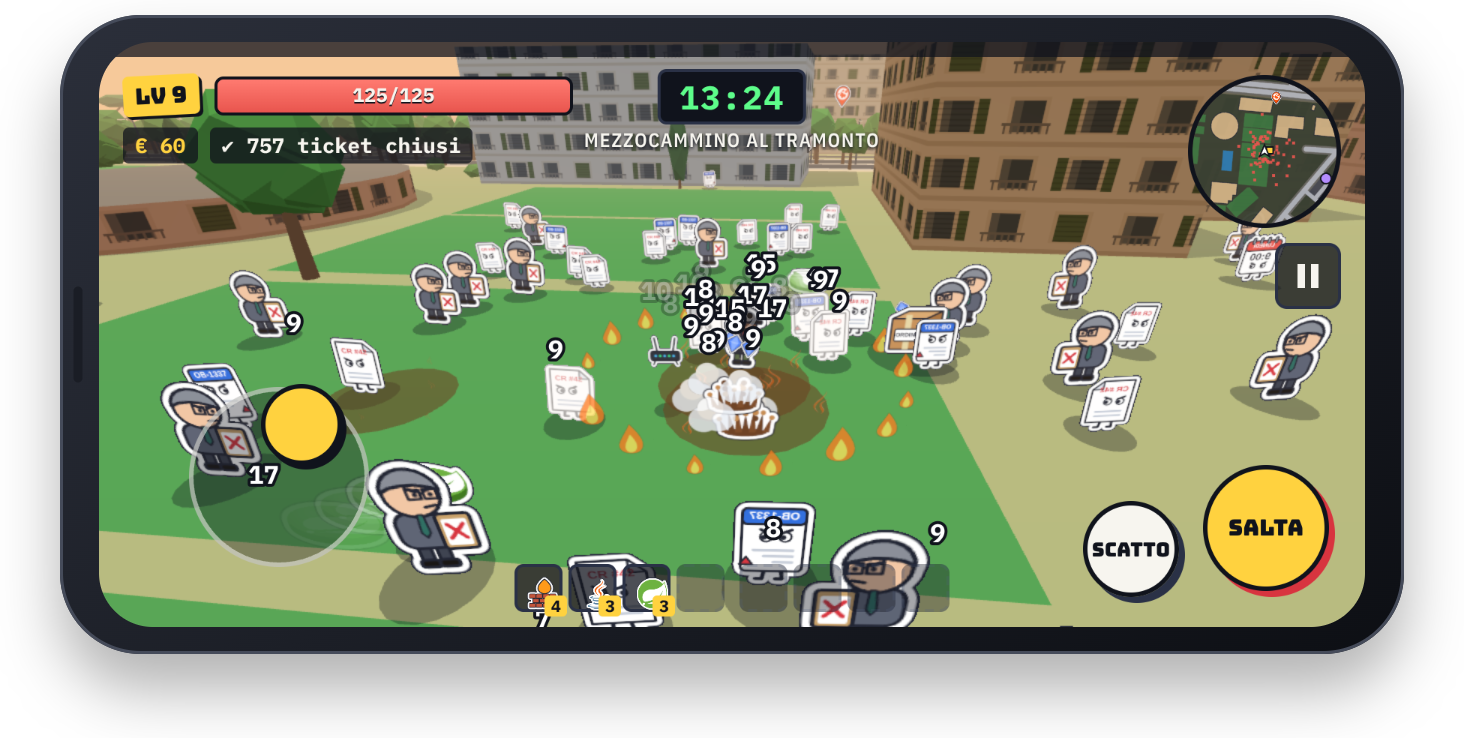
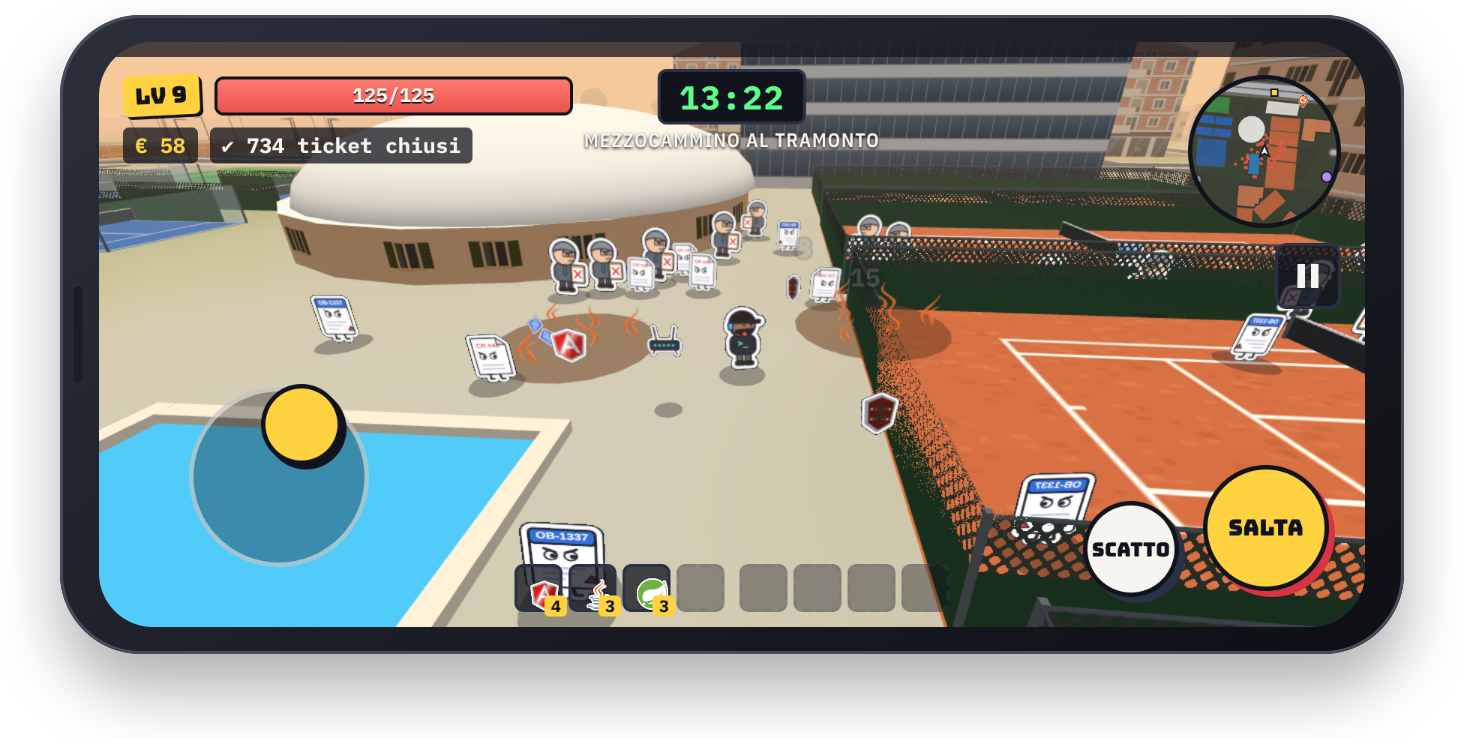
Screenshot e GIF del README sulla nuova Mezzocammino
Rigenerate tutte le immagini che mostrano la mappa, dopo i palazzi in stile,
gli alberi veri e il suolo dal satellite:
- gameplay, telefono, promozione, JOscar e vittoria nel piazzale dell'Enjoy
  Sporting Club, tra terra rossa, piscina e cupola; le armi su un campo da tennis
- boss di notte sul prato tra le palazzine illuminate
- i tre progetti davanti alla sede JPanik, ora in vetro
- vista aerea dal lato della Colombo, senza il "buco" della camera che
  dall'alto nascondeva gli alberi intorno alla sede
- didascalie del README aggiornate (sede in vetro, Sporting Club)

Banner, titolo e galleria dei loghi non mostrano la mappa e restano com'erano.

Claude-Session: https://claude.ai/code/session_016asEQ3wpeEEkXGbR2ePpUr

diff --git a/README.md b/README.md
@@ -12,7 +12,7 @@
 </p>
 
 <p align="center">
-  <img src="docs/media/hero.gif" alt="Gameplay: il Developer circondato da bug, email e ticket, con paperelle, Claude Code, scudi Angular e alveare JPanik" width="640">
+  <img src="docs/media/hero.gif" alt="Gameplay nel piazzale dell'Enjoy Sporting Club: il Developer circondato da bug, email e ticket, con paperelle, Claude Code, scudi Angular e alveare JPanik" width="640">
 </p>
 
 <p align="center">
@@ -73,7 +73,7 @@ All'avvio della partita il gioco chiede lo schermo intero dove il browser lo per
 su iPhone si ottiene aggiungendo la pagina alla schermata Home.
 
 <p align="center">
-  <img src="docs/media/mobile.png" alt="JBonk su telefono in orizzontale: joystick sotto il pollice sinistro, pulsanti Salta e Scatto a destra, HUD compatto" width="640">
+  <img src="docs/media/mobile.png" alt="JBonk su telefono in orizzontale, al tramonto tra la piscina e i campi in terra rossa: joystick sotto il pollice sinistro, pulsanti Salta e Scatto a destra, HUD compatto" width="640">
 </p>
 
 Con `#debug` nell'URL: `L` level-up, `B` boss, `G` invincibile, `K` uccidi tutti, `T` +1 ora, `O` +100 €, `N` nuova arma (prima le ultime aggiunte), `C` carta Soldo, `F` onda del radar NGH, `J` statuetta JOscar.
@@ -192,11 +192,11 @@ pensilina blu e le colonnine; bar e ristoranti con vetrine e tende a strisce nei
 
 <table>
   <tr>
-    <td width="50%"><img src="docs/media/aerial-helios.png" alt="Vista dall'alto di Mezzocammino al tramonto: palazzi con le altezze vere, strade, campi sportivi e alberi"></td>
-    <td width="50%"><img src="docs/media/aerial-atlas.png" alt="Vista dall'alto di Mezzocammino di notte: finestre illuminate e lampioni accesi lungo le strade"></td>
+    <td width="50%"><img src="docs/media/aerial-helios.png" alt="Vista dall'alto di Mezzocammino al tramonto: l'Enjoy Sporting Club con terra rossa, padel e calcetto, la sede JPanik in vetro e le palazzine con i tetti in coppi"></td>
+    <td width="50%"><img src="docs/media/aerial-atlas.png" alt="Vista dall'alto di Mezzocammino di notte: finestre e vetrine illuminate, lampioni accesi lungo le strade"></td>
   </tr>
   <tr>
-    <td align="center" colspan="2"><sub>Il quartiere visto dall'alto: la sede JPanik è il palazzo grigio al centro, accanto ai campi sportivi</sub></td>
+    <td align="center" colspan="2"><sub>Il quartiere visto dalla Colombo: in primo piano l'Enjoy Sporting Club (terra rossa, padel, calcetto, cupola e piscina), subito dietro la sede JPanik in vetro</sub></td>
   </tr>
 </table>
 
